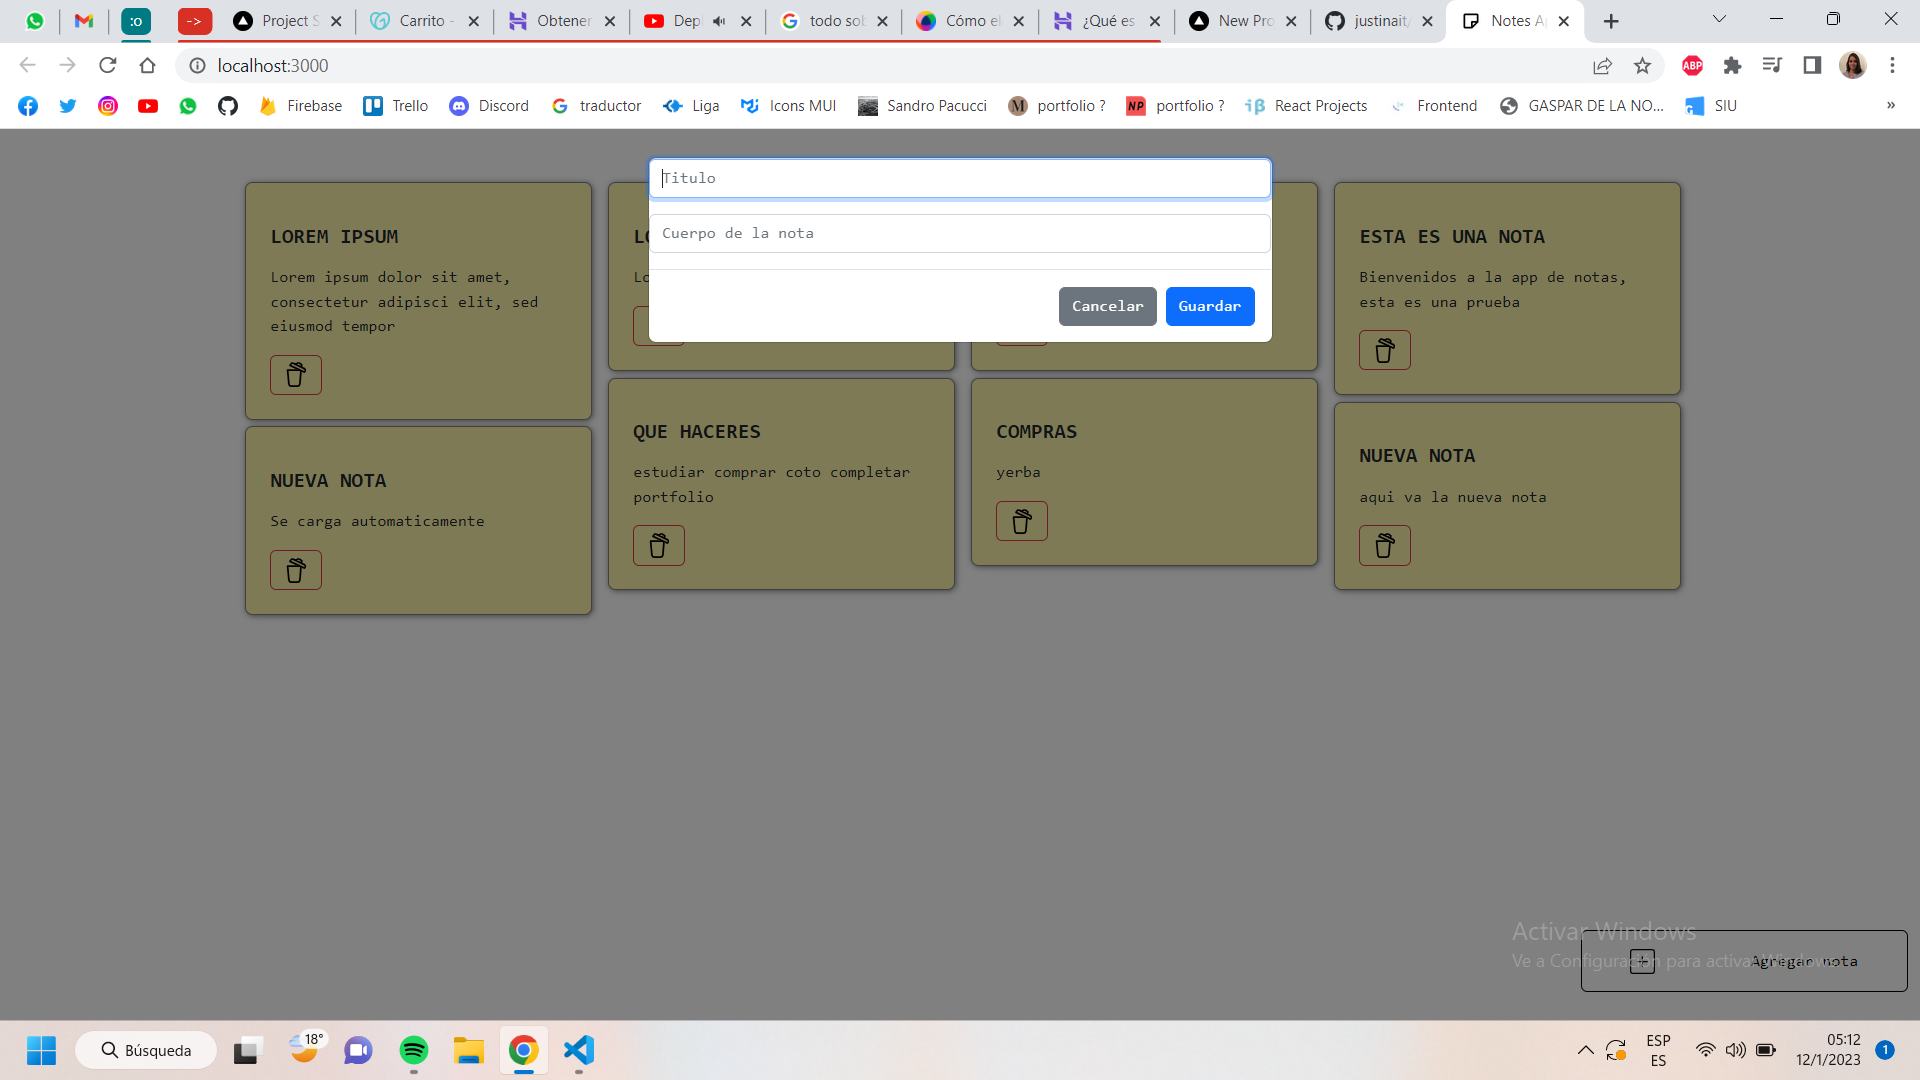
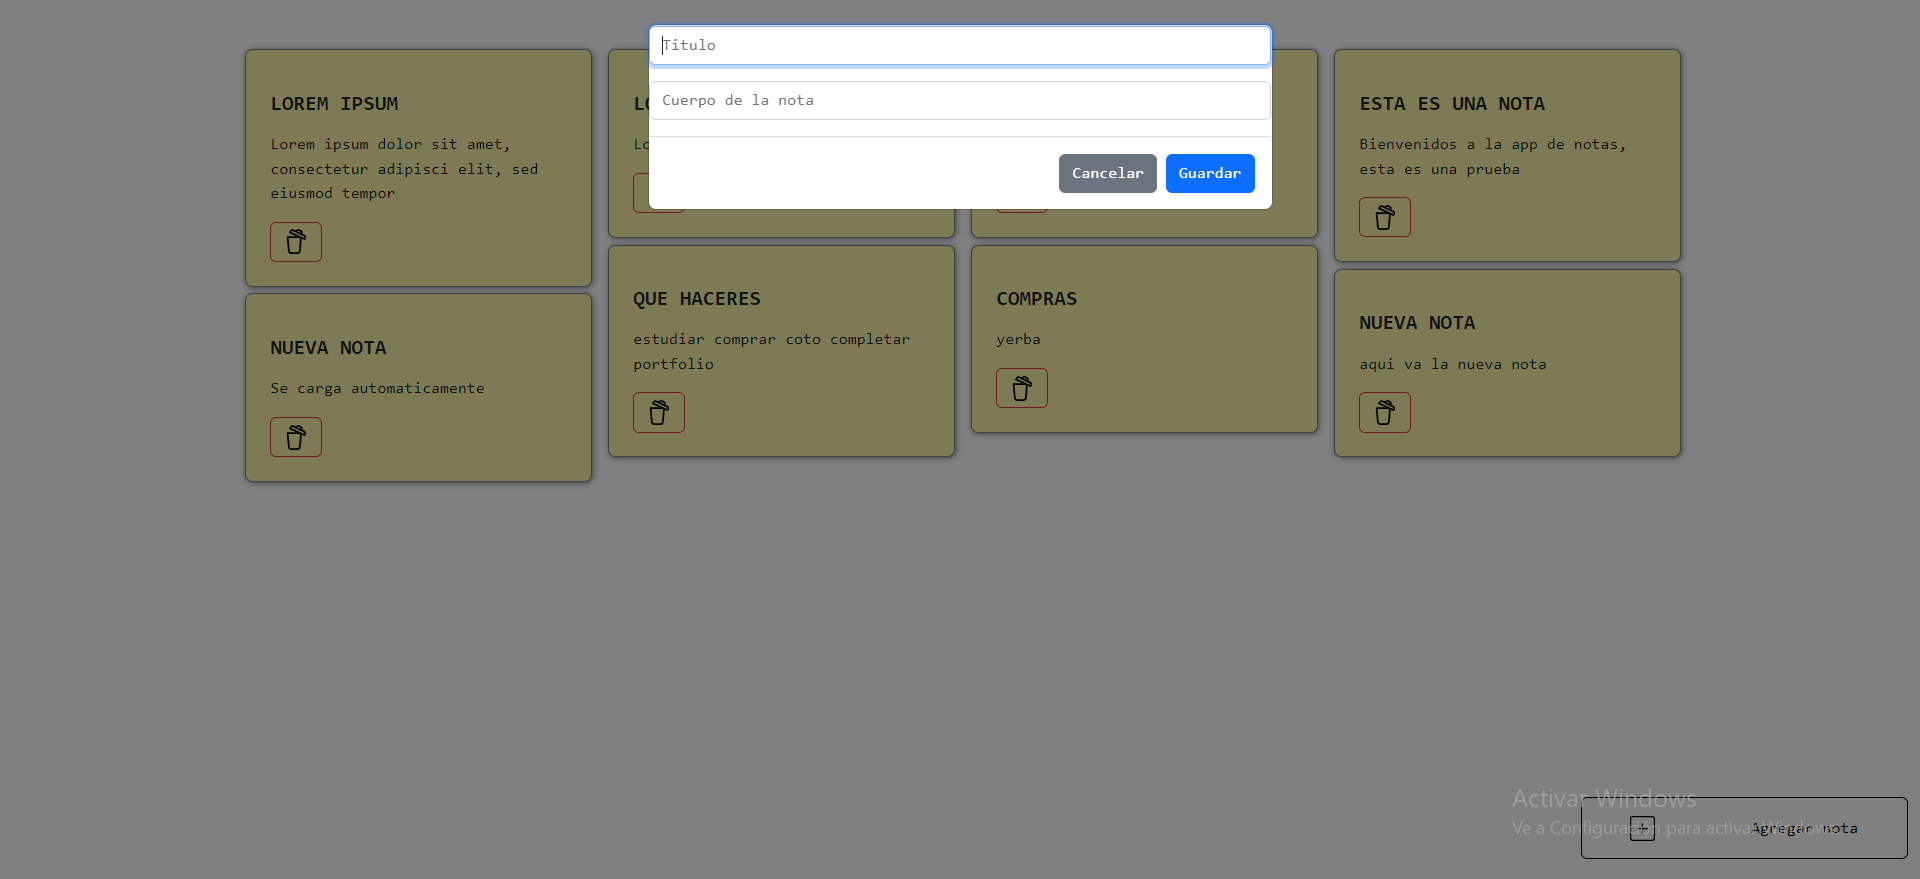
update project photo

Changed region(s): [[0.0, 0.0, 1.0, 0.5836], [0.0, 0.8601, 1.0, 1.0]]

diff --git a/src/components/Projects/Projects.js b/src/components/Projects/Projects.js
@@ -13,7 +13,7 @@ function Projects() {
 
         <Card style={{ width: '18rem' }}>
 
-          <img src="https://i.ibb.co/HKpqcc5/jorgelina.png" alt="jorgelina" border="0" />
+          <img src="https://i.ibb.co/ngLDpgD/jorgelina.png" alt="jorgelina" border="0" />
 
           <Card.Body>
 
@@ -34,7 +34,7 @@ function Projects() {
       {/* NOTAS */}
       <div className='project'>
         <Card style={{ width: '18rem' }}>
-          <img src="https://i.ibb.co/wpmvv8f/notes-1.png" alt="notes-1" border="0" />
+          <img src="https://i.ibb.co/LvczTQ1/notes-1.png" alt="notes-1" border="0" />
           <Card.Body>
             <Card.Title>App de notas</Card.Title>
             <Card.Text>
@@ -47,19 +47,12 @@ function Projects() {
           </Card.Body>
         </Card>
       </div>
-      {/* aceite ig jorg notas
-        https://ibb.co/RcYp62c
-        https://ibb.co/qR6jmMG
-        https://ibb.co/yNBqzzH
-        https://ibb.co/h2zqqrS
-        https://ibb.co/MPkQp2p
-      */}
 
       {/* ACEITE DE OLIVA */}
       <div className='project'>
         <Card style={{ width: '18rem' }}>
-
-          <img src="https://i.ibb.co/zZQh2sZ/aceite.png" alt="aceite" border="0" />
+          <img src="https://i.ibb.co/sPHTVL0/aceite.png" alt="aceite" border="0"/>
+          
           <Card.Body>
             <Card.Title>E-commerce Aceite de Oliva</Card.Title>
             <Card.Text>
@@ -76,7 +69,7 @@ function Projects() {
       {/* INSTAGRAM */}
       <div className='project'>
         <Card style={{ width: '18rem' }}>
-          <img src="https://i.ibb.co/55Z4sWD/instagram.png" alt="instagram" border="0" />
+          <img src="https://i.ibb.co/t8NyGs7/instagram.png" alt="instagram" border="0" />
           <Card.Body>
             <Card.Title>Instagram Clone</Card.Title>
             <Card.Text>

diff --git a/src/App.css b/src/App.css
@@ -14,10 +14,10 @@
 }
 
 .title {
-  font-family: 'Sue Ellen Francisco', cursive;
+  /* font-family: 'Sue Ellen Francisco', cursive; */
   color: yellow;
-  font-size: 4em;
-  padding: 4%;
+  font-size: 3em;
+  padding: 5%;
 }
 
 .title:hover {
